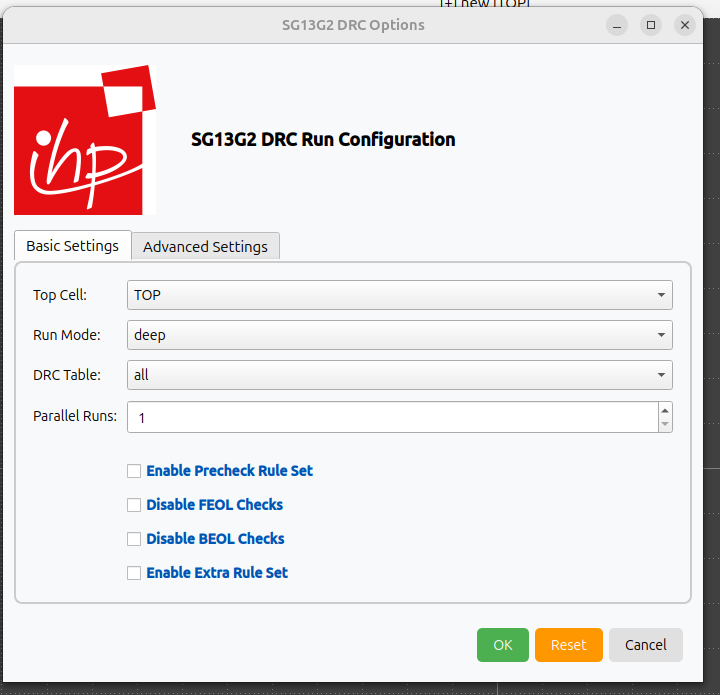
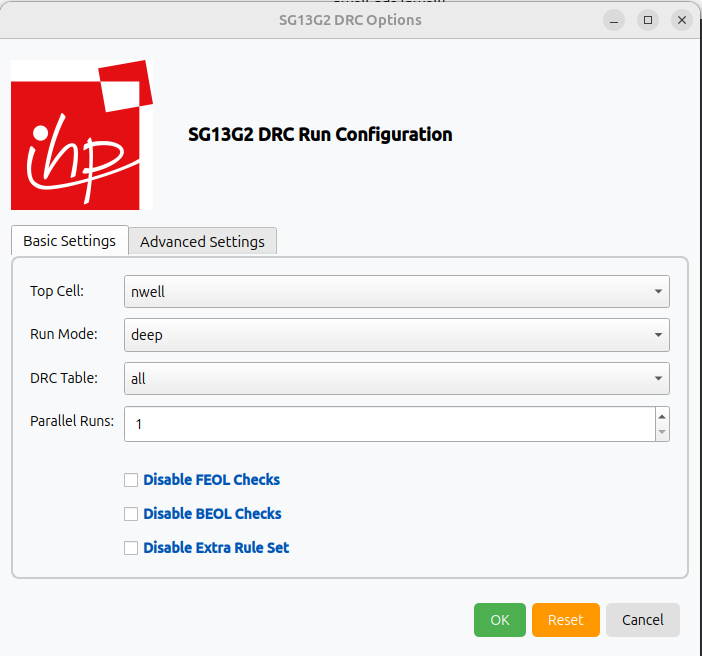
Merge pull request #24 from IHP-GmbH/swithch_modifications
Adding the modifications of the switches

Pull request: Adding the modifications of the switches

diff --git a/docs/verification/drc/04_04_usage.rst b/docs/verification/drc/04_04_usage.rst
@@ -17,7 +17,7 @@ The `run_drc.py` script takes your gds to run DRC rule decks with switches to se
   run_drc.py --path=<file_path>
           [--table=<table_name>]... [--mp=<num_cores>] [--run_dir=<run_dir_path>]
           [--topcell=<topcell_name>] [--run_mode=<mode>] [--drc_json=<json_path>]
-          [--precheck_drc] [--extra_rules] [--no_feol] [--no_beol] [--no_density]
+          [--disable_extra_rules] [--no_feol] [--no_beol] [--no_density]
           [--density_thr=<density_threads>] [--density_only] [--antenna]
           [--antenna_only] [--no_offgrid] [--macro_gen]
 
@@ -36,10 +36,9 @@ The `run_drc.py` script takes your gds to run DRC rule decks with switches to se
     `--run_mode {deep,flat}`
                             KLayout execution mode: deep, or flat. [default: deep]
     `--drc_json DRC_JSON`   Path to a JSON file that defines rule values to use.
-    `--precheck_drc`        Run a minimal set of DRC checks typically required for foundry prechecks.
     `--no_feol`             Disable all FEOL-related DRC checks.
     `--no_beol`             Disable all BEOL-related DRC checks.
-    `--extra_rules`         Run the remaining DRC rules from the full rule set (may be slower).
+    `--disable_extra_rules` Distable the remaining DRC rules from the full rule set (may be slower).
     `--no_density`          Disable density rule checks.
     `--density_only`        Run only density rules.
     `--antenna`             Enable antenna rule checks.
@@ -49,7 +48,6 @@ The `run_drc.py` script takes your gds to run DRC rule decks with switches to se
 
 .. note::
    
-   To enable the **foundry precheck rule set**, use the ``--precheck_drc`` switch.
    By default, the **main DRC rule set** will be executed, which includes **density rules**.  
    To disable density checks, use the ``--no_density`` switch.
 